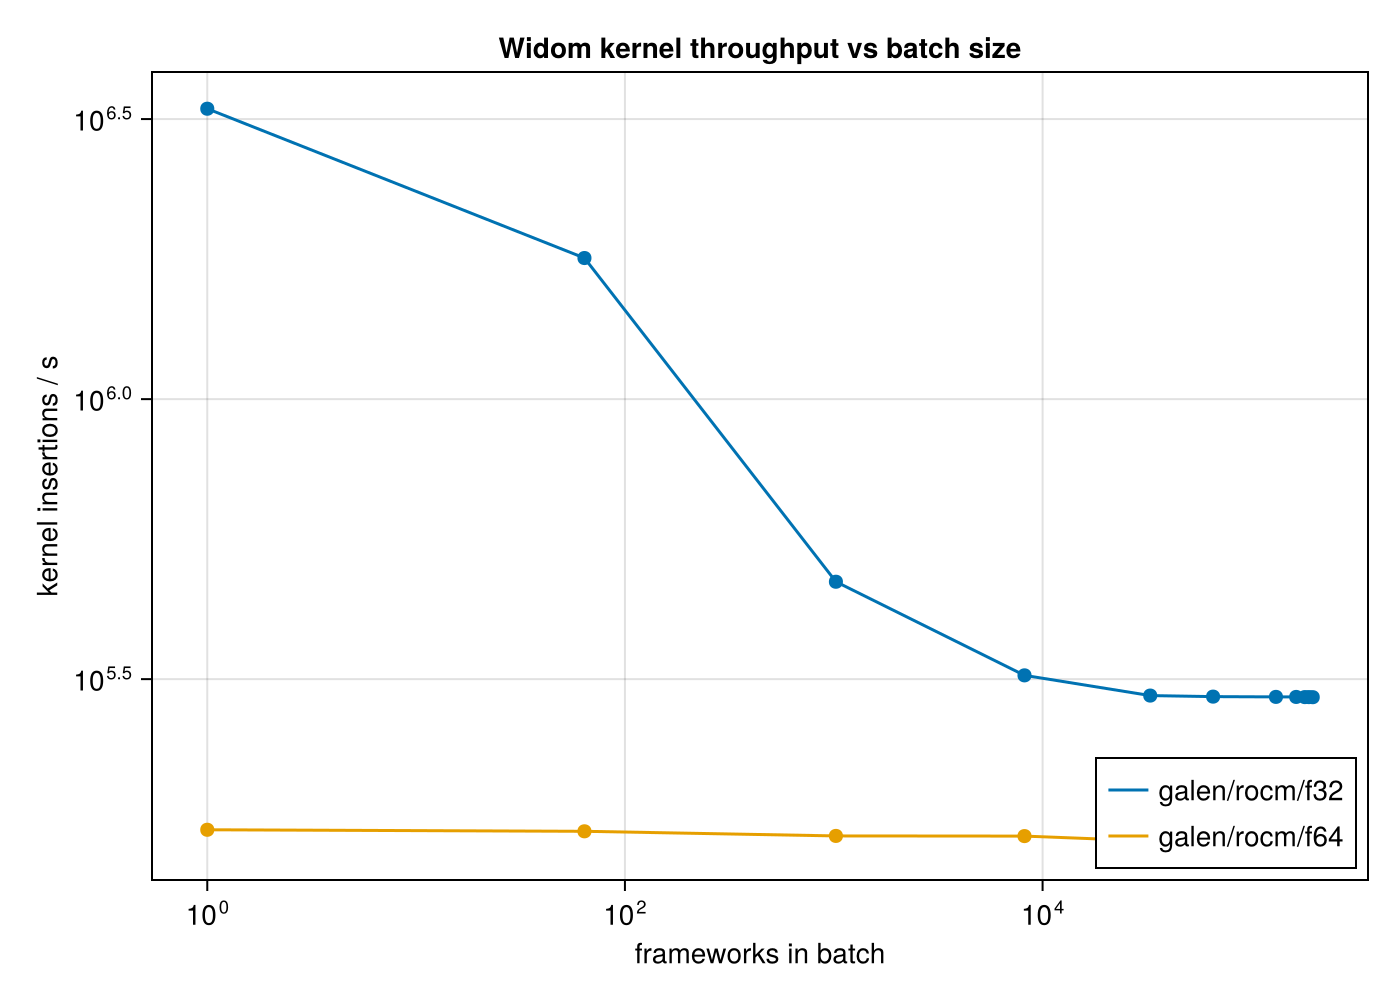
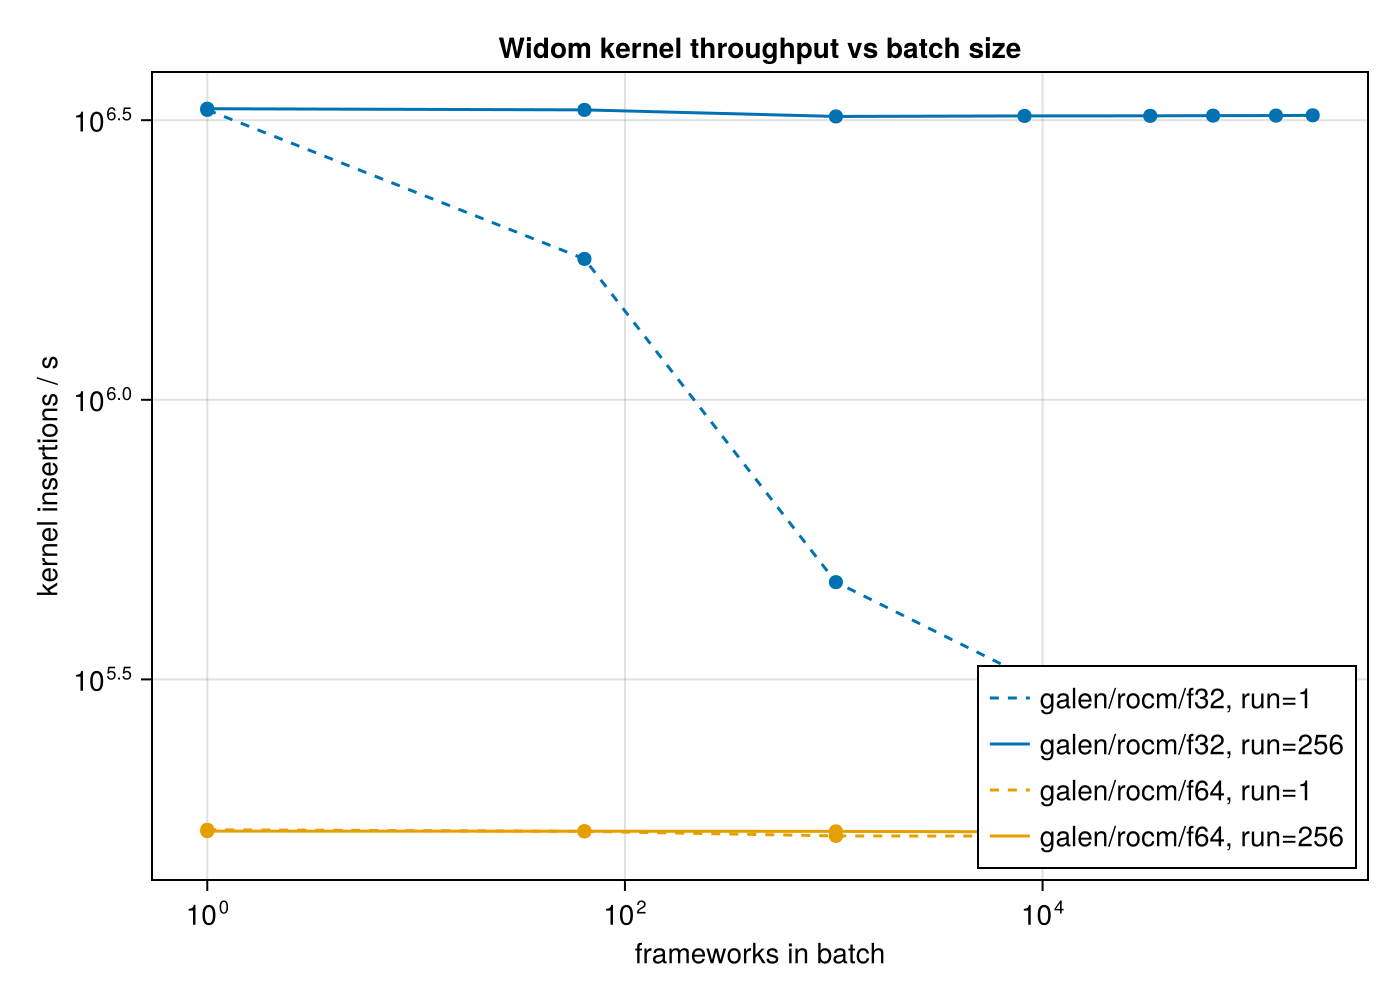
Update benchmark docs for the run-length insertion assignment
docs/src/benchmarks.md now presents three measured configurations for
the R9700 batch-size sweep: run length 256 (widom's own default once a
framework receives at least 1024 insertions), a run-length sweep at
32,768 frameworks, and round-robin (run length 1) as the case that
shows why the assignment matters. All throughput tables are refreshed
from the 2026-09-20 result files, including the re-measured RTX 3050
grid.

bench/plot_scaling.jl distinguishes run length 1 from run length 256
by line style and label; the regenerated PNGs reflect this.

bench/results/README.md and its file list point at the new result
files, including the run-length sweep.

Assisted-by: Claude Sonnet 5 <noreply@anthropic.com>
Claude-Session: https://claude.ai/code/session_01MqhrLpP6VncWSEax6RKaBx

diff --git a/docs/src/benchmarks.md b/docs/src/benchmarks.md
@@ -34,53 +34,55 @@ Kernel-only (one launch of `widom_kernel!` + synchronize on a 2¹⁶-pose chunk)
 
 | nsys | ninsert | median (s) | insertions/s | samples |
 |---|---|---|---|---|
-| 1 | 10,000 | 0.2051 | 48,746 | 10 |
-| 1 | 100,000 | 0.7902 | 126,543 | 10 |
-| 1 | 1,000,000 | 6.1742 | 161,964 | 5 |
-| 64 | 10,000 | 0.2078 | 48,117 | 10 |
-| 64 | 100,000 | 0.7978 | 125,347 | 10 |
-| 64 | 1,000,000 | 6.2174 | 160,840 | 5 |
+| 1 | 10,000 | 0.2047 | 48,848 | 10 |
+| 1 | 100,000 | 0.7877 | 126,959 | 10 |
+| 1 | 1,000,000 | 6.164 | 162,242 | 5 |
+| 64 | 10,000 | 0.2089 | 47,869 | 10 |
+| 64 | 100,000 | 0.795 | 125,792 | 10 |
+| 64 | 1,000,000 | 6.18 | 161,804 | 5 |
 
-Kernel-only: nsys=1, 0.3926 s (166,933 ins/s); nsys=64, 0.3947 s (166,031 ins/s).
+Kernel-only (run length 256): nsys=1, 0.3917 s (167,322 ins/s); nsys=64, 0.3919 s (167,207 ins/s).
 
 ### AMD Radeon AI PRO R9700 (Float32, galen, ROCm)
 
 | nsys | ninsert | median (s) | insertions/s | samples |
 |---|---|---|---|---|
-| 1 | 10,000 | 0.01562 | 640,007 | 10 |
-| 1 | 100,000 | 0.05260 | 1,901,139 | 10 |
-| 1 | 1,000,000 | 0.42068 | 2,377,105 | 10 |
-| 64 | 10,000 | 0.01712 | 584,026 | 10 |
-| 64 | 100,000 | 0.07350 | 1,360,574 | 10 |
-| 64 | 1,000,000 | 0.63570 | 1,573,059 | 10 |
+| 1 | 10,000 | 0.01517 | 659,241 | 10 |
+| 1 | 100,000 | 0.05317 | 1,880,730 | 10 |
+| 1 | 1,000,000 | 0.4254 | 2,350,478 | 10 |
+| 64 | 10,000 | 0.01554 | 643,392 | 10 |
+| 64 | 100,000 | 0.05499 | 1,818,359 | 10 |
+| 64 | 1,000,000 | 0.4306 | 2,322,542 | 10 |
 
-Kernel-only: nsys=1, 0.02221 s (2,951,251 ins/s); nsys=64, 0.03701 s (1,770,550 ins/s).
+Kernel-only (run length 256): nsys=1, 0.02161 s (3,032,082 ins/s); nsys=64, 0.02231 s
+(2,937,811 ins/s).
 
 ### NVIDIA RTX 3050 (Float64, neuromancer, CUDA)
 
 | nsys | ninsert | median (s) | insertions/s | samples |
 |---|---|---|---|---|
-| 1 | 10,000 | 0.5335 | 18,743 | 10 |
-| 1 | 100,000 | 3.1967 | 31,282 | 10 |
-| 1 | 1,000,000 | 32.2178 | 31,039 | 1 |
-| 64 | 10,000 | 0.5424 | 18,435 | 10 |
-| 64 | 100,000 | 3.2482 | 30,786 | 10 |
-| 64 | 1,000,000 | 33.1286 | 30,185 | 1 |
+| 1 | 10,000 | 0.5275 | 18,957 | 10 |
+| 1 | 100,000 | 3.185 | 31,398 | 10 |
+| 1 | 1,000,000 | 32.48 | 30,792 | 1 |
+| 64 | 10,000 | 0.5423 | 18,441 | 10 |
+| 64 | 100,000 | 3.181 | 31,437 | 10 |
+| 64 | 1,000,000 | 32.24 | 31,021 | 1 |
 
-Kernel-only: nsys=1, 2.1309 s (30,756 ins/s); nsys=64, 2.1654 s (30,264 ins/s).
+Kernel-only (run length 256): nsys=1, 2.108 s (31,091 ins/s); nsys=64, 2.115 s (30,990 ins/s).
 
 ### NVIDIA RTX 3050 (Float32, neuromancer, CUDA)
 
 | nsys | ninsert | median (s) | insertions/s | samples |
 |---|---|---|---|---|
-| 1 | 10,000 | 0.02483 | 402,714 | 10 |
-| 1 | 100,000 | 0.15571 | 642,224 | 10 |
-| 1 | 1,000,000 | 1.58056 | 632,686 | 10 |
-| 64 | 10,000 | 0.06669 | 149,953 | 10 |
-| 64 | 100,000 | 0.36208 | 276,182 | 10 |
-| 64 | 1,000,000 | 3.18718 | 313,757 | 10 |
+| 1 | 10,000 | 0.03157 | 316,790 | 10 |
+| 1 | 100,000 | 0.1551 | 644,708 | 10 |
+| 1 | 1,000,000 | 1.575 | 634,888 | 10 |
+| 64 | 10,000 | 0.034 | 294,157 | 10 |
+| 64 | 100,000 | 0.1669 | 599,135 | 10 |
+| 64 | 1,000,000 | 1.651 | 605,675 | 10 |
 
-Kernel-only: nsys=1, 0.09976 s (656,932 ins/s); nsys=64, 0.18911 s (346,553 ins/s).
+Kernel-only (run length 256): nsys=1, 0.09944 s (659,081 ins/s); nsys=64, 0.1041 s
+(629,587 ins/s).
 
 Consumer GeForce cards throttle double-precision throughput relative to a datacenter part:
 the Float64/Float32 gap on the RTX 3050 (roughly 20× at nsys=1) is far larger than the
@@ -92,11 +94,64 @@ Float64-only R9700 numbers above would suggest by themselves.
 
 `bench/widom_scaling.jl` measures kernel throughput — one `widom_kernel!` launch plus
 synchronization, on a chunk of 262,144 insertions — against the number of frameworks (`nsys`)
-tiled into one batch, on the R9700 (galen, ROCm). One framework's host and Ewald tables are
-computed on the CPU and tiled onto the device; the batch stays on the device for the whole
-sweep, and each batch size runs in its own process.
+tiled into one batch, on the R9700 (galen, ROCm), at a given insertion run length. One
+framework's host and Ewald tables are computed on the CPU and tiled onto the device; the batch
+stays on the device for the whole sweep, and each batch size runs in its own process.
 
-### Float64
+`widom` assigns insertion `g` of `1:ninsert` to system `mod1((g - 1) ÷ run + 1, nsys)`: `run`
+consecutive insertions share a system before the assignment cycles to the next one, so device
+work-items adjacent in the insertion order read the same framework's tables. The default run
+length is `clamp((ninsert ÷ nsys) ÷ 4, 1, 256)`, reaching its ceiling of 256 once a system
+receives at least 1,024 insertions.
+
+### Run length 256
+
+Run length 256 is what `default_run` gives at every batch size in this sweep (`ninsert = chunk =
+262,144`, so `ninsert ÷ nsys >= 1,024` for every `nsys` tested).
+
+| frameworks | batch size (GiB) | median kernel insertions/s (Float64) |
+|---|---|---|
+| 1 | 0.0003083 | 169,292 |
+| 64 | 0.01973 | 169,203 |
+| 1,024 | 0.3157 | 169,105 |
+| 8,192 | 2.525 | 168,790 |
+| 32,768 | 10.1 | 168,792 |
+| 65,536 | 20.2 | 168,736 |
+| 98,304 | 30.3 | 168,596 |
+
+| frameworks | batch size (GiB) | median kernel insertions/s (Float32) |
+|---|---|---|
+| 1 | 0.0001599 | 3,315,371 |
+| 64 | 0.01023 | 3,299,559 |
+| 1,024 | 0.1637 | 3,211,654 |
+| 8,192 | 1.31 | 3,218,591 |
+| 32,768 | 5.238 | 3,219,615 |
+| 65,536 | 10.48 | 3,222,399 |
+| 131,072 | 20.95 | 3,223,046 |
+| 196,608 | 31.43 | 3,226,734 |
+
+Throughput under run length 256 is flat within a few percent across the whole sweep, for both
+precisions: Float64 stays within 0.4% (169,292 to 168,596 insertions/s), Float32 within 3.2%
+(3,315,371 to 3,211,654 insertions/s, with a modest recovery to 3,226,734 at the largest batch).
+
+### Run length sweep at 32,768 frameworks
+
+`pureadsorb_widom_runlength_galen_rocm_20260920.json` fixes the batch at 32,768 frameworks and
+varies the run length directly, for both precisions:
+
+| run length | insertions/s (Float64) | insertions/s (Float32) |
+|---|---|---|
+| 1 | 164,029 | 294,865 |
+| 16 | 169,213 | 3,033,118 |
+| 256 | 169,265 | 3,240,284 |
+| 4,096 | 169,185 | 3,344,249 |
+| 262,144 | 169,208 | 3,342,436 |
+
+Float64 throughput is close to its plateau already at run length 16 and does not move further
+out to a run spanning the whole chunk. Float32 keeps rising past run length 256, reaching its
+highest measured value at run length 4,096 (3,344,249 insertions/s) before leveling off.
+
+### Run length 1 (round-robin)
 
 | frameworks | batch size (GiB) | median kernel insertions/s |
 |---|---|---|
@@ -110,8 +165,6 @@ sweep, and each batch size runs in its own process.
 | 90,112 | 27.78 | 161,492 |
 | 94,208 | 29.04 | 161,301 |
 | 98,304 | 30.30 | 161,019 |
-
-### Float32
 
 | frameworks | batch size (GiB) | median kernel insertions/s |
 |---|---|---|
@@ -127,25 +180,26 @@ sweep, and each batch size runs in its own process.
 | 188,416 | 30.12 | 293,678 |
 | 196,608 | 31.43 | 293,585 |
 
-Float64 throughput changes by about 5% from 1 to 98,304 frameworks (170,210 to 161,019
-insertions/s). Float32 falls from its one-framework value to a plateau reached by about
-32,768 frameworks (295,531 insertions/s), essentially flat out to 196,608 frameworks
-(293,585 insertions/s).
+The first table is Float64, the second Float32. Every work-item reads a different framework's
+tables under round-robin, at every batch size above 1 — the opposite of run length 256, where
+adjacent work-items share a framework. Float64 throughput falls by about 5% from 1 to 98,304
+frameworks (170,210 to 161,019 insertions/s); Float32 falls much further, from its
+one-framework value to a plateau reached by about 32,768 frameworks (295,531 insertions/s),
+essentially flat out to 196,608 frameworks (293,585 insertions/s).
 
 At the plateau, `bytes_per_system` — the per-framework device bytes the kernel reads — times
 insertions/s gives an effective data rate: 330,984 B × 161,019 ins/s ≈ 53.3 GB/s (Float64, at
 98,304 frameworks) and 171,648 B × 293,585 ins/s ≈ 50.4 GB/s (Float32, at 196,608 frameworks).
-The two are close, consistent with the kernel being limited by memory traffic at large batch
-sizes; this is an inference from the throughput numbers above, not something confirmed with a
-profiler.
+The two rates are close despite the precisions differing by 2× in bytes per element; this is
+consistent with the kernel being limited by memory traffic at large batch sizes under
+round-robin assignment, an inference from the throughput numbers above, not something confirmed
+with a profiler.
 
-With one framework, every work-item reads the same host and Ewald tables. With many
-frameworks, each work-item reads a different framework's tables, assigned round-robin
-(`sys_of[i] = mod1(i, nsys)` in `random_poses!`, `src/widom.jl`). A screening run over distinct
-frameworks is the many-framework case, so it operates at the large-batch figures above, not the
-one-framework figures.
+A screening run over distinct frameworks assigns insertions close to round-robin (many systems,
+few insertions per system), so it operates near these figures rather than the run-length-256
+figures above, unless it overrides `run` to a longer value itself.
 
-No batch size in this sweep failed to allocate; 98,304 frameworks (Float64, 30.3 GiB) and
+No batch size in either sweep failed to allocate; 98,304 frameworks (Float64, 30.3 GiB) and
 196,608 frameworks (Float32, 31.4 GiB) are the largest sizes tested on this card, not a
 measured failure point.
 
@@ -240,9 +294,14 @@ PA_BACKEND=cuda PA_GRID=4:1000000 PA_REPS=5 julia --project=bench/gpu bench/wido
 # kUPS + PureAdsorb interleaved head-to-head (needs a kUPS checkout outside this repo)
 bench/run_headtohead.sh
 
-# Kernel throughput vs number of frameworks in a batch
+# Kernel throughput vs number of frameworks in a batch, round-robin (run length 1, the default
+# of widom_scaling.jl's own PA_RUN)
 PA_BACKEND=rocm PA_PRECISION=f64 julia --project=bench/gpu bench/widom_scaling.jl
 PA_BACKEND=rocm PA_PRECISION=f32 julia --project=bench/gpu bench/widom_scaling.jl
+
+# Same sweep at run length 256, the default widom itself uses at these batch sizes
+PA_BACKEND=rocm PA_PRECISION=f64 PA_RUN=256 julia --project=bench/gpu bench/widom_scaling.jl
+PA_BACKEND=rocm PA_PRECISION=f32 PA_RUN=256 julia --project=bench/gpu bench/widom_scaling.jl
 
 # Near device capacity, one process per batch size: memory freed by a smaller batch is not
 # returned to the device within the process, so the next large allocation would otherwise stall
@@ -260,5 +319,6 @@ PA_PLOT_OUT=docs/src/assets/widom_scaling.png julia --project=bench bench/plot_s
 `PA_BACKEND` selects `cpu` (default), `cuda` or `rocm`; `PA_PRECISION` selects `f64` (default)
 or `f32`; `PA_GRID` restricts a `widom_bench.jl` sweep to one `nsys:ninsert` point and `PA_REPS`
 sets its sample count; `PA_NSYS` restricts a `widom_scaling.jl` sweep to the given batch sizes
-(space-separated, increasing). No plot is ever regenerated by re-running a benchmark —
-`plot_widom.jl` and `plot_scaling.jl` only read `bench/results/*.json`.
+(space-separated, increasing); `PA_RUN` sets `widom_scaling.jl`'s insertion run length (default
+1, round-robin). No plot is ever regenerated by re-running a benchmark — `plot_widom.jl` and
+`plot_scaling.jl` only read `bench/results/*.json`.

diff --git a/bench/results/README.md b/bench/results/README.md
@@ -40,12 +40,13 @@ julia --project=bench bench/plot_widom.jl
 | neuromancer | — | cpu | f64 | `pureadsorb_widom_neuromancer_cpu_20260917.json` |
 | galen | AMD Radeon AI PRO R9700 (gfx1201, Navi48/RDNA4) | rocm | f64 | `pureadsorb_widom_galen_rocm_f64_20260920.json` |
 | galen | AMD Radeon AI PRO R9700 (gfx1201, Navi48/RDNA4) | rocm | f32 | `pureadsorb_widom_galen_rocm_f32_20260920.json` |
-| neuromancer | NVIDIA GeForce RTX 3050 6GB | cuda | f64 | `pureadsorb_widom_neuromancer_cuda_f64_20260919.json` |
-| neuromancer | NVIDIA GeForce RTX 3050 6GB | cuda | f32 | `pureadsorb_widom_neuromancer_cuda_f32_20260919.json` |
+| neuromancer | NVIDIA GeForce RTX 3050 6GB | cuda | f64 | `pureadsorb_widom_neuromancer_cuda_f64_20260920.json` |
+| neuromancer | NVIDIA GeForce RTX 3050 6GB | cuda | f32 | `pureadsorb_widom_neuromancer_cuda_f32_20260920.json` |
 
-The 2026-09-20 galen ROCm files supersede `pureadsorb_widom_galen_rocm_20260917.json` for the
-R9700 throughput tables in `docs/src/benchmarks.md`; the 2026-09-17 file stays committed but is
-not otherwise referenced.
+The 2026-09-20 galen ROCm files supersede `pureadsorb_widom_galen_rocm_20260917.json`, and the
+2026-09-20 neuromancer CUDA files supersede the 2026-09-19 CUDA files, for the throughput tables
+in `docs/src/benchmarks.md`; the superseded files stay committed but are not otherwise
+referenced (`plot_widom.jl` also keeps only the latest file per host/backend/precision).
 
 The RTX 3050 sits behind a Thunderbolt eGPU enclosure on neuromancer, and neuromancer's CPU
 clock is unpinned (see the top-level protocol note): its numbers are indicative only, never
@@ -57,10 +58,19 @@ PRO R9700 numbers above.
 ## Batch-size scaling
 
 `bench/widom_scaling.jl` measures kernel throughput against the number of frameworks in one
-batch, up to the largest batch each precision holds on the R9700 (galen, ROCm):
-`pureadsorb_widom_scaling_galen_rocm_f64_20260920.json` (up to 98,304 frameworks) and
-`pureadsorb_widom_scaling_galen_rocm_f32_20260920.json` (up to 196,608 frameworks). See
-`docs/src/benchmarks.md`, "Throughput against batch size".
+batch, up to the largest batch each precision holds on the R9700 (galen, ROCm), at two insertion
+run lengths:
+
+- Run length 256, `widom`'s own default once a framework receives at least 1024 insertions:
+  `pureadsorb_widom_scaling_galen_rocm_f64_run256_20260920.json` (up to 98,304 frameworks) and
+  `pureadsorb_widom_scaling_galen_rocm_f32_run256_20260920.json` (up to 196,608 frameworks).
+- Run length 1 (round-robin), kept as the comparison case:
+  `pureadsorb_widom_scaling_galen_rocm_f64_20260920.json` (up to 98,304 frameworks) and
+  `pureadsorb_widom_scaling_galen_rocm_f32_20260920.json` (up to 196,608 frameworks).
+
+`pureadsorb_widom_runlength_galen_rocm_20260920.json` sweeps the run length itself, at a fixed
+32,768 frameworks, for both precisions. See `docs/src/benchmarks.md`, "Throughput against batch
+size".
 
 ## Precision
 
